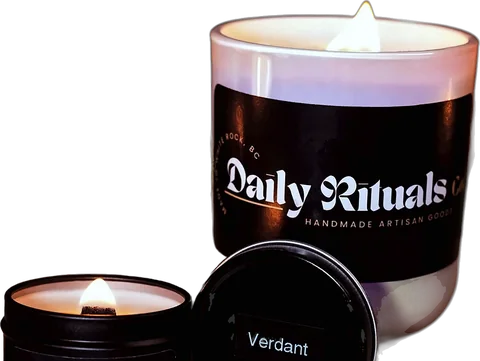
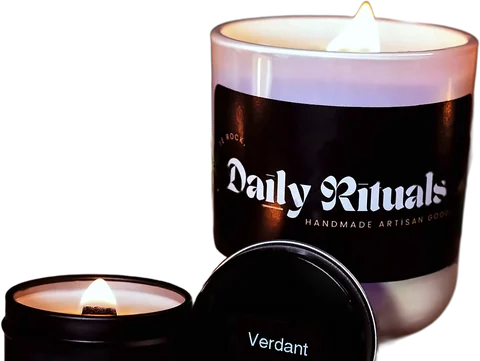
Photo library: whole-tin cut-outs of 17 pours (no half tins, no slivers of neighbours) and cleaner Cabana and Verdant cut-outs (flash specks, dust and lid scratches removed, lettering kept)
Claude-Session: https://claude.ai/code/session_01RanBWMym3Yx8zSFUMRBnKQ

diff --git a/tools/photo/hero_cut.py b/tools/photo/hero_cut.py
@@ -1,0 +1,61 @@
+"""Polished product cut-outs for Cabana and Verdant (lit tumbler + small tin + lid).
+
+1. Cut out from the retouched master (isnet), hard alpha with soft edges.
+2. Remove flash specks (dust, scratches, fingerprints) on the black tin and lid: small bright features on dark
+   surfaces in the lower part of the frame are found with a top-hat and inpainted; the dark metal is then smoothed
+   lightly (bilateral) so it reads as clean matte black. The labels (large bright areas) are untouched.
+3. The photograph's straight bottom edge is kept; the page sets the candles on a lit surface that fades it out.
+Usage: python3 -I hero_cut.py <master.png> <out.png>
+"""
+import sys
+import numpy as np, cv2
+from PIL import Image
+from rembg import remove, new_session
+
+src, out = sys.argv[1], sys.argv[2]
+pil = Image.open(src).convert('RGB')
+rgb = np.array(pil)
+H, W = rgb.shape[:2]
+alpha = np.array(remove(pil, session=new_session('isnet-general-use'), only_mask=True)).astype(np.float32) / 255
+alpha = np.clip((alpha - 0.15) / 0.7, 0, 1)
+
+# ---- 2. flash specks on dark metal (lower 45% of the frame, where the tin and lid are) ----
+bgr = cv2.cvtColor(rgb, cv2.COLOR_RGB2BGR)
+gray = cv2.cvtColor(bgr, cv2.COLOR_BGR2GRAY)
+dark = (cv2.GaussianBlur(gray, (0, 0), 6) < 70).astype(np.uint8)
+zone = np.zeros_like(dark); zone[int(H * 0.55):, :] = 1
+bright = (gray > 165).astype(np.uint8)
+nb, lb, sb, _ = cv2.connectedComponentsWithStats(bright, 8)
+big = np.zeros_like(bright)
+for i in range(1, nb):
+    if sb[i, cv2.CC_STAT_AREA] > 1500: big[lb == i] = 1
+protect = cv2.dilate(big, cv2.getStructuringElement(cv2.MORPH_ELLIPSE, (31, 31)))
+removed = 0
+# two passes: fine dust and scratches, then larger fingerprint smudges
+for ksize, maxarea, thr in [(13, 160, 22), (35, 1200, 16)]:
+    gray = cv2.cvtColor(bgr, cv2.COLOR_BGR2GRAY)
+    tophat = cv2.morphologyEx(gray, cv2.MORPH_TOPHAT, cv2.getStructuringElement(cv2.MORPH_ELLIPSE, (ksize, ksize)))
+    spec = ((tophat > thr) & (dark > 0) & (zone > 0)).astype(np.uint8)
+    n, lab, st, _ = cv2.connectedComponentsWithStats(spec, 8)
+    # lettering sits in rows of marks close together; dust and smudges do not
+    boxes = [(st[i, 0] + st[i, 2] / 2, st[i, 1] + st[i, 3] / 2, i) for i in range(1, n) if st[i, cv2.CC_STAT_AREA] <= maxarea]
+    mask = np.zeros_like(spec)
+    for (cx, cy, i) in boxes:
+        if sum(1 for (ox, oy, j) in boxes if j != i and abs(oy - cy) < 7 and abs(ox - cx) < 60) >= 2: continue
+        if protect[int(cy), int(cx)]: continue
+        mask[lab == i] = 255
+    mask = cv2.dilate(mask, np.ones((3, 3), np.uint8))
+    bgr = cv2.inpaint(bgr, mask, 5, cv2.INPAINT_TELEA)
+    removed += int(mask.sum() / 255)
+smooth = cv2.bilateralFilter(bgr, 15, 38, 15)
+m = (cv2.GaussianBlur((dark & zone & (1 - protect)).astype(np.float32), (0, 0), 3))[..., None] * 0.85
+bgr = (bgr * (1 - m) + smooth * m).astype(np.uint8)
+rgb = cv2.cvtColor(bgr, cv2.COLOR_BGR2RGB)
+print('specks removed:', removed)
+
+a2 = cv2.GaussianBlur(alpha, (0, 0), 0.7)
+rgb2 = rgb
+img = Image.fromarray(np.dstack([rgb2, (a2 * 255).astype(np.uint8)]), 'RGBA')
+img = img.crop(img.getbbox())
+img.save(out)
+print(out, img.size)

diff --git a/tools/photo/lid_clean.py b/tools/photo/lid_clean.py
@@ -1,0 +1,29 @@
+"""Clean matte finish on a tin lid: the lid's disc (found with HoughCircles) is replaced inside its rim by a smooth
+version of itself (normalised blur of lid pixels only, soft top light, fine grain), except the printed scent sticker,
+which is located from its white lettering and kept untouched. Usage: python3 -I lid_clean.py <in.png> <out.png> x y r"""
+import sys
+import numpy as np, cv2
+from PIL import Image
+src, out, x, y, r = sys.argv[1], sys.argv[2], *map(int, sys.argv[3:6])
+im = np.array(Image.open(src)); rgb = im[..., :3].astype(np.float32); H, W = im.shape[:2]
+gray = cv2.cvtColor(im[..., :3], cv2.COLOR_RGB2GRAY)
+yy, xx = np.mgrid[0:H, 0:W]; d = np.hypot(xx - x, yy - y); disk = d < r * 0.9
+letters = ((gray > 170) & (d < r * 0.8)).astype(np.uint8)
+n, lab, s, _ = cv2.connectedComponentsWithStats(letters, 8)
+pts = [(s[i, 0], s[i, 1], s[i, 0] + s[i, 2], s[i, 1] + s[i, 3]) for i in range(1, n) if 15 < s[i, 4] < 3000]
+stk = np.zeros((H, W), np.uint8)
+if pts:
+    x0 = min(p[0] for p in pts); y0 = min(p[1] for p in pts); x1 = max(p[2] for p in pts); y1 = max(p[3] for p in pts)
+    th = y1 - y0; pad_x, pad_y = int(th * 1.1), int(th * 1.0)
+    cv2.rectangle(stk, (x0 - pad_x, y0 - pad_y), (x1 + pad_x, y1 + pad_y), 1, -1)
+    print('sticker text box', x0, y0, x1, y1)
+else:
+    print('no lettering found; leaving lid untouched'); Image.fromarray(im, 'RGBA').save(out); sys.exit()
+m = (disk & (stk == 0)).astype(np.float32); sig = r * 0.12
+soft = cv2.GaussianBlur(rgb * m[..., None], (0, 0), sig) / np.maximum(cv2.GaussianBlur(m, (0, 0), sig)[..., None], 1e-3)
+soft *= (1.0 + 0.06 * np.clip((y - yy) / r, -1, 1))[..., None]
+soft += np.random.default_rng(3).normal(0, 1.6, soft.shape)
+feather = np.clip((r * 0.9 - d) / (r * 0.06), 0, 1) * (1 - cv2.GaussianBlur(stk.astype(np.float32), (0, 0), 2))
+feather = cv2.GaussianBlur(feather.astype(np.float32), (0, 0), 1.5)[..., None]
+im[..., :3] = np.clip(rgb * (1 - feather) + soft * feather, 0, 255).astype(np.uint8)
+Image.fromarray(im, 'RGBA').save(out)

diff --git a/tools/photo/README.md b/tools/photo/README.md
@@ -13,3 +13,8 @@ These scripts produce every studio photograph the site uses from Claire's origin
 Requirements (Python 3.11): `opencv-python-headless`, `numpy`, `pillow`, `rembg`, `onnxruntime`, `pymatting`. The cut-outs use the rembg models `isnet-general-use` and `u2net`. Claire's cut-out also uses `birefnet-portrait`, combined with the `u2net` mask so the sofa behind her drops out, then cleaned at the edges with pymatting's `estimate_foreground_ml`. `derive.py` reads that result from `/tmp/retouch/claire-cut-clean.png`.
 
 Note: `derive.py` regrades `moons/` in place. Run it only from the original (ungraded) archive pictures, or they will be graded twice.
+
+## Product cut-outs (added)
+- `hero_cut.py` cuts out the lit Cabana and Verdant photographs. It also removes flash specks, dust and scratches from the black tin and lid. Lettering is protected: marks that sit in a row are treated as text and left alone.
+- `lid_clean.py` gives a tin lid a clean matte finish inside its rim. It finds the printed scent sticker from its lettering and keeps it untouched. Pass the lid's centre and radius (from HoughCircles).
+- `public/img/studio/tins/`: groups of whole tins seen from above, cut from the retouched photographs. Each tin's wax face is found as a separate shape, because the black rims divide the faces. Only tins whose whole outline is inside the frame are kept, and anything that belongs to a neighbouring tin is cut away. (The script is the inline block that produced `/tmp/cut4`. It still needs to be saved here.)
